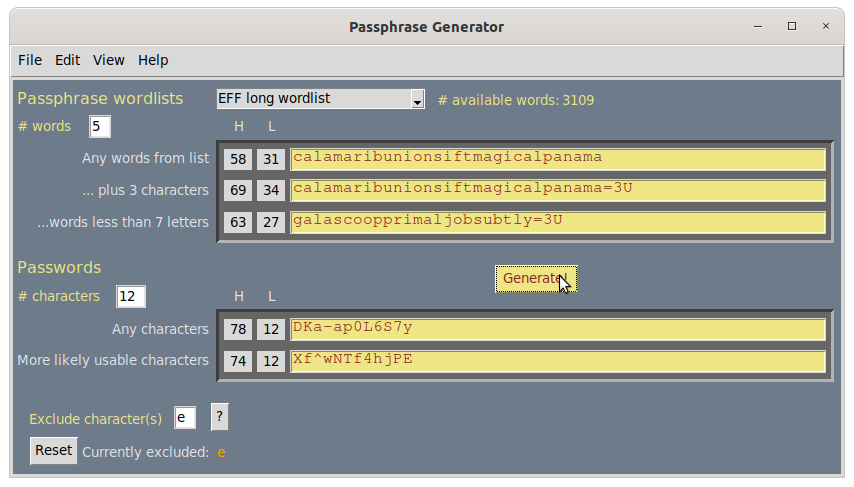
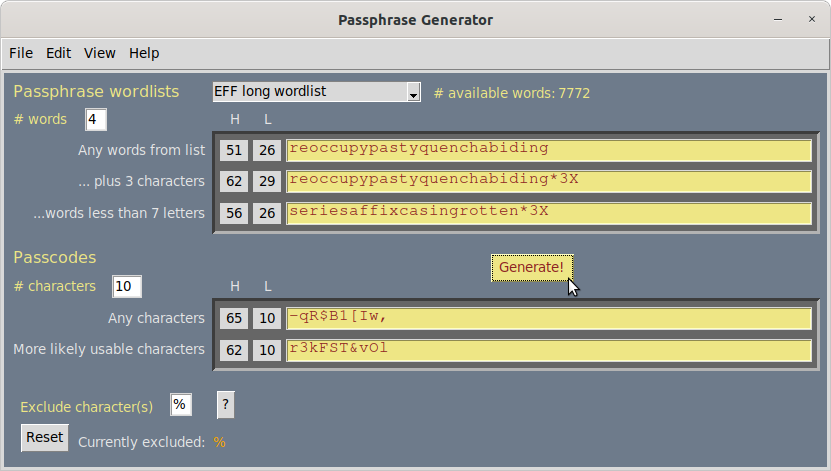
update README files

Changed region(s): [[0.0, 0.0, 1.0, 1.0]]

diff --git a/README.html b/README.html
@@ -5,8 +5,8 @@
    color: black;
 }
 </style></head><body><h1 id="passphrases-project">Passphrases Project</h1>
-<p>Python GUI scripts and cross-platform executables to easily make secure passphrases and passwords.</p>
-<p>A potential problem with some on-line password and passphrase generators is that they are on-line. Here is something that can be run locally and privately either as a standalone program on <strong>Windows</strong> and <strong>MacOS</strong> or as a Python script from a Terminal window in <strong>Windows</strong>, <strong>MacOS</strong>, or <strong>Linux</strong>. </p>
+<p>Python GUI scripts and cross-platform executables to easily make secure passphrases and passcodes.</p>
+<p>A potential problem with some on-line passcode and passphrase generators is that they are on-line. Here is something that can be run locally and privately either as a standalone program on <strong>Windows</strong> and <strong>MacOS</strong> or as a Python script from a Terminal window in <strong>Windows</strong>, <strong>MacOS</strong>, or <strong>Linux</strong>. </p>
 <p>Words and character strings are randomized with Python&#39;s Random class using a random seed: random.Random(random.random()). For more information, see <a href="https://docs.python.org/3/library/random.html#random.random">https://docs.python.org/3/library/random.html#random.random</a></p>
 <p>The different pass-strings generated provide options for compliance with a range of website and application requirements.
 Suggestions for improvement are welcome, especially ideas to access the system dictionary on Windows.</p>
@@ -15,18 +15,19 @@ Suggestions for improvement are welcome, especially ideas to access the system d
 <p>Developed with Python 3.8-3.9, under Ubuntu 20.04, Windows 10, and MacOS 10.13.6 &amp; 11.1. The standalone programs do not need Python installation.
 Running from the command line requires Python 3.6 or later, preferably 3.7 or later. A recent tkinter graphics module of Python is required, which is included in Python 3.7+; earlier versions will require installation of Tk/Tcl. Recent Python packages can be downloaded from <a href="https://www.python.org/downloads/">https://www.python.org/downloads/</a>.</p>
 <h2 id="usage">Usage</h2>
-<p>To get started, download the repository package by clicking on the Code download button and select the Download ZIP option, or use git commands if you are comfortable with that. Unzipping (extracting) the zip file will create a passphrases-master directory. Once the program is launched (see below), click Generate! to make passphrases and passwords. Results can be copied. Passphrase and password lengths are set by the user. Usage details for different operating systems are outlined below.</p>
+<p>To get started, download the repository package by clicking on the Code download button and select the Download ZIP option, or use git commands if you are comfortable with that. Unzipping (extracting) the zip file will create a passphrases-master directory. Once the program is launched (see below), click Generate! to make passphrases and passcodes. Results can be copied. Passphrase and passcode lengths are set by the user. Usage details for different operating systems are outlined below.</p>
 <h3 id="system-specific-implementations">System-specific Implementations</h3>
 <h4 id="passphrase-py">passphrase.py</h4>
-<p>The passphrase.py script is generally launched from a Terminal command line. Running the script brings up an interactive graphics window to generate passphrases and password strings. On <strong>MacOS</strong> and <strong>Linux</strong> there is an option to create passphrases using either the system dictionary or different wordlists. On <strong>Windows</strong>, only the system dictionary is not available. The number of words available for each wordlist can be seen to the right of the selected wordlist and from the pulldown menu: <code>Help -&gt; What&#39;s going on here?</code>. </p>
+<p>The passphrase.py script is generally launched from a Terminal command line. Running the script brings up an interactive graphics window to generate passphrases and passcode strings. On <strong>MacOS</strong> and <strong>Linux</strong> there is an option to create passphrases using either the system dictionary or different wordlists. On <strong>Windows</strong>, only the system dictionary is not available. The number of words available for each wordlist can be seen to the right of the selected wordlist and from the pulldown menu: <code>Help -&gt; What&#39;s going on here?</code>. </p>
 <p>For <strong>Windows</strong>, the folder, <code>wordlists</code>, included in this distribution, must be kept in the passphrase-generate-master folder. Launching the program by double-clicking on the passphrase.py icon may work if .py is in your PATH list. Otherwise, launch a Terminal window opened from the passphrases-master folder and enter the command <code>python3 passphrase.py</code> or <code>python passphrase.py</code> or <code>py passphrase.py</code>, depending on your system environment. </p>
 <p>For <strong>Linux</strong> or <strong>MacOS</strong>, the <code>wordlists</code> directory also needs to be in the passphrases-master folder, but its use for generating passphrases is optional. The default source for words is your system dictionary. Launch the script from a Terminal window opened within the passphrases-master folder using the command
 <code>python3 ./passphrase.py</code> or <code>./passphrase.py</code>  On <strong>MacOS</strong>, a Python Launcher is bundled with some Python installations and can be configured to run passphrase.py by double-clicking on it.</p>
 <h3 id="stand-alone-versions-no-python-installation-needed-">Stand-alone versions (no Python installation needed!)</h3>
 <h4 id="passphrase-app-macos">Passphrase.app - MacOS</h4>
-<p>A <strong>MacOS</strong> standalone of passphrase.py. Download an extract the GitHub distribution package as outlined above. Inside passphrase-generate-master/Standalone_distributables folder is <code>Passphrase_mac.app.zip</code>. Unzip that (just double click and follow prompts) to install the <code>Passphrase.app</code>, which you can place where ever you like. The distributable app ZIP file can be downloaded directly from <a href="https://github.com/csecht/passphrase-generate/raw/master/Standalone_distributables/Passphrase_mac.app.zip">https://github.com/csecht/passphrase-generate/raw/master/Standalone_distributables/Passphrase_mac.app.zip</a>. The first time you double-click on the app, however, you will most likely get a message saying it can&#39;t be used; simply go into System Preferences &gt; Security &amp; Privacy &gt; General and allow the app to open. It does not open initially because it was not downloaded from the Apple Store or from a recognized Apple developer. <code>Passphrase.app</code> was created with <code>py2app</code> from <a href="https://pypi.org/project/py2app/">https://pypi.org/project/py2app/</a></p>
+<p>A <strong>MacOS</strong> standalone of passphrase.py. Download an extract the GitHub distribution package as outlined above. Inside passphrase-generate-master/Standalone_distributables folder is <code>Passphrase_mac.app.zip</code>. Unzip that (just double click and follow prompts) to install the <code>Passphrase.app</code>, which you can place where ever you like. The distributable app ZIP file can be downloaded directly from <a href="https://github.com/csecht/passphrase-generate/raw/master/Standalone_distributables/Passphrase_mac.app.zip">https://github.com/csecht/passphrase-generate/raw/master/Standalone_distributables/Passphrase_mac.app.zip</a>. The first time you double-click on the app, however, you will get a message saying it can&#39;t be used. Go to System Preferences &gt; Security &amp; Privacy &gt; General and click the &quot;Open Anyway&quot; button, the click &quot;OK&quot;. It does not open initially because it was not downloaded from the Apple Store or from a recognized Apple developer. <code>Passphrase.app</code> was created with <code>py2app</code> from <a href="https://pypi.org/project/py2app/">https://pypi.org/project/py2app/</a></p>
 <h4 id="passphrase-exe-windows">Passphrase.exe - Windows</h4>
 <p>A <strong>Windows</strong> standalone of passphrase.py. Download an extract the GitHub distribution package as outlined above. Inside the <code>passphrase-generate-master/Standalone_distributables</code> folder is <code>Passphrase_win.zip</code>, an archived folder of files necessary for running the Windows executable. This distributable archive can be downloaded directly from  <a href="https://github.com/csecht/passphrase-generate/raw/master/Standalone_distributables/Passphrase_win.zip">https://github.com/csecht/passphrase-generate/raw/master/Standalone_distributables/Passphrase_win.zip</a>. Extract All for that ZIP file. Within the extracted Passphrase_win folder is the executable, <code>passphrase.exe</code> (the .exe extension may not show, depending on your system view settings). Double-click <code>Passphrase.exe</code> to launch. You will likely first need to permit Windows to open it: from the pop-up warning, click on &quot;more info&quot;, then follow the prompts to open the program. The <code>Passphrase</code> folder can be placed anywhere, but you may want to create an alias of <code>passphrase.exe</code> to move to a convenient location for easy access. The <code>Passphrase_win</code> distributable was created with <code>py2exe</code> from <a href="https://pypi.org/project/py2exe/">https://pypi.org/project/py2exe/</a></p>
+<p>Instructions for how to create your own stand-alone from the passphrase.py script are in Standalone_distributables/setup_README.txt.</p>
 <h2 id="wordlist-sources-">Wordlist sources:</h2>
 <p>Optional wordlists were derived from texts obtained from these sites:</p>
 <ul>

diff --git a/README.md b/README.md
@@ -1,7 +1,7 @@
 # Passphrases Project
-Python GUI scripts and cross-platform executables to easily make secure passphrases and passwords.
+Python GUI scripts and cross-platform executables to easily make secure passphrases and passcodes.
 
-A potential problem with some on-line password and passphrase generators is that they are on-line. Here is something that can be run locally and privately either as a standalone program on **Windows** and **MacOS** or as a Python script from a Terminal window in **Windows**, **MacOS**, or **Linux**. 
+A potential problem with some on-line passcode and passphrase generators is that they are on-line. Here is something that can be run locally and privately either as a standalone program on **Windows** and **MacOS** or as a Python script from a Terminal window in **Windows**, **MacOS**, or **Linux**. 
 
 Words and character strings are randomized with Python's Random class using a random seed: random.Random(random.random()). For more information, see https://docs.python.org/3/library/random.html#random.random
 
@@ -15,13 +15,13 @@ Developed with Python 3.8-3.9, under Ubuntu 20.04, Windows 10, and MacOS 10.13.6
 Running from the command line requires Python 3.6 or later, preferably 3.7 or later. A recent tkinter graphics module of Python is required, which is included in Python 3.7+; earlier versions will require installation of Tk/Tcl. Recent Python packages can be downloaded from https://www.python.org/downloads/.
 
 ## Usage
-To get started, download the repository package by clicking on the Code download button and select the Download ZIP option, or use git commands if you are comfortable with that. Unzipping (extracting) the zip file will create a passphrases-master directory. Once the program is launched (see below), click Generate! to make passphrases and passwords. Results can be copied. Passphrase and password lengths are set by the user. Usage details for different operating systems are outlined below.
+To get started, download the repository package by clicking on the Code download button and select the Download ZIP option, or use git commands if you are comfortable with that. Unzipping (extracting) the zip file will create a passphrases-master directory. Once the program is launched (see below), click Generate! to make passphrases and passcodes. Results can be copied. Passphrase and passcode lengths are set by the user. Usage details for different operating systems are outlined below.
 
 Quick start: Run the Python script passphrase.py from the same folder as the 'wordlists' directory.
 
 ### System-specific Implementations
 #### passphrase.py
-The passphrase.py script is generally launched from a Terminal command line. Running the script brings up an interactive graphics window to generate passphrases and password strings. On **MacOS** and **Linux** there is an option to create passphrases using either the system dictionary or different wordlists. On **Windows**, only the system dictionary is not available. The number of words available for each wordlist can be seen to the right of the selected wordlist and from the pulldown menu: `Help -> What's going on here?`.
+The passphrase.py script is generally launched from a Terminal command line. Running the script brings up an interactive graphics window to generate passphrases and passcode strings. On **MacOS** and **Linux** there is an option to create passphrases using either the system dictionary or different wordlists. On **Windows**, only the system dictionary is not available. The number of words available for each wordlist can be seen to the right of the selected wordlist and from the pulldown menu: `Help -> What's going on here?`.
 
 For **Windows**, the folder, `wordlists`, included in this distribution, must be kept in the passphrase-generate-master folder. Launching the program by double-clicking on the passphrase.py icon may work if .py is in your PATH list. Otherwise, launch a Terminal window opened from the passphrases-master folder and enter the command ```python3 passphrase.py``` or ```python passphrase.py``` or ```py passphrase.py```, depending on your system environment. 
 
@@ -49,7 +49,7 @@ The `parser.py` script from https://github.com/csecht/make_wordlist was used to 
 The program places no limits on the length of pass-strings, though your system memory might. The window can be dragged to view longer results up to a limit; results exceeding that limit can still be copied and pasted.
 
 ## Known issues:
-In MacOS, using F1 to increase font size in any pop-up window inserts a "?"/unknown character in the text. 
+In MacOS, using F1 to increase font size in any pop-up window inserts a "?"/unknown character in the text when cursor in in the text field. 
 
 ## Development plans:
 - Use Windows system dictionary
